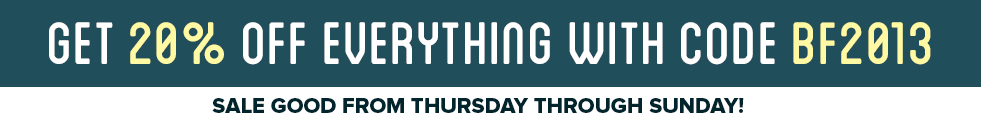
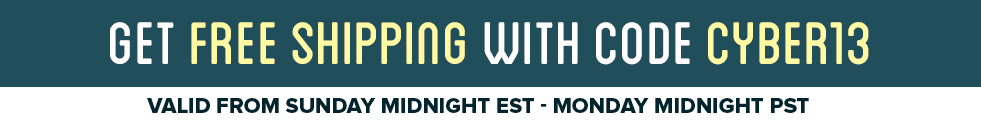
updated promo info for Cyber Monday

Changed region(s): [[0.0306, 0.1721, 0.948, 0.541], [0.1529, 0.7869, 0.8257, 0.9344]]

diff --git a/big-cartel-theme/layout.html b/big-cartel-theme/layout.html
@@ -77,7 +77,7 @@
 
 	<header class="shop-header clearfix">
 
-    <div class="beta-notice"><strong>BLACK FRIDAY SAVINGS!</strong> From Thursday until Sunday take <code>20% off everything</code> at checkout with code <code>BF2013</code></div>
+    <div class="beta-notice"><strong>CYBER MONDAY SPECIAL</strong> Get free shipping at checkout with code <code>CYBER13</code></div>
 
     {% if page.permalink == 'cart' %}
     <div class="beta-notice cart"><strong>NOTICE:</strong> I'm very sorry but international shipping is temporarily unavailable while I work out quality issues. <a href="/faq#international-orders">More info</a>.</div>
